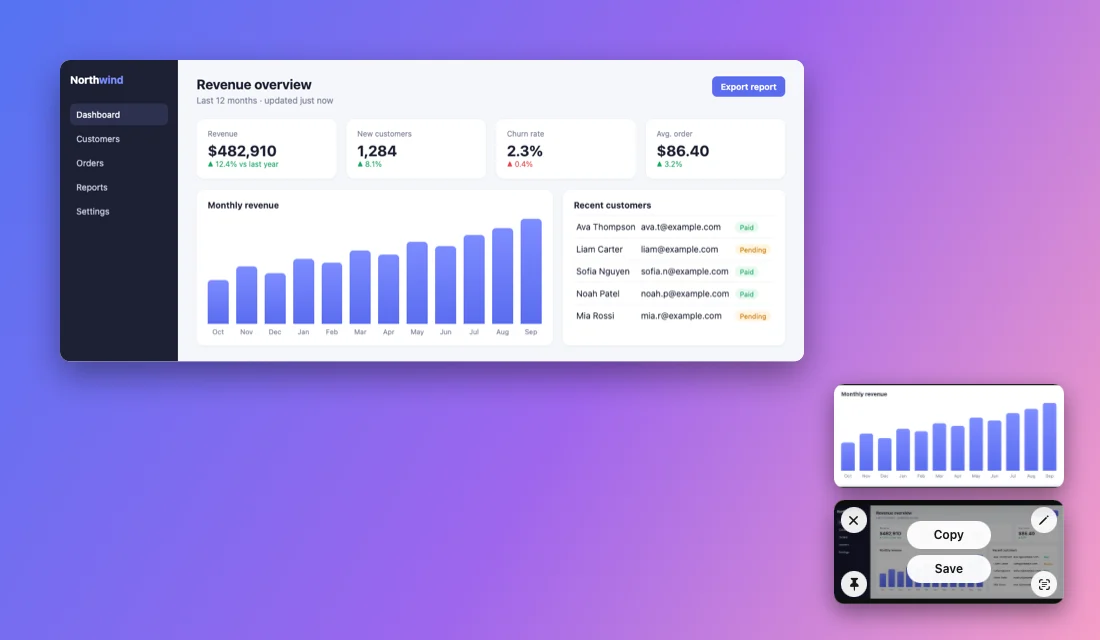
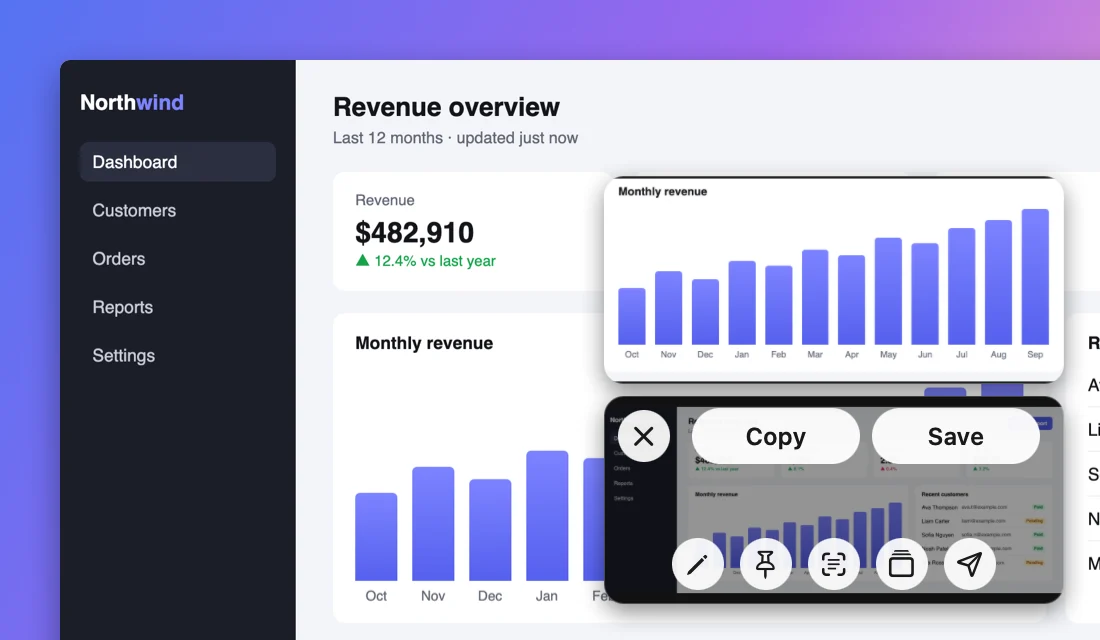
feat(glimpse): recent screenshots, Stitch and Send to your agent (#29)
New Recent and Send sections with screenshots rendered by the app; the
Annotate copy covers the pencil arrow and notes; refreshed editor and
thumbnail images; the overlay copy lists the new buttons; the agents copy
mentions drawing back; fallback version 1.6.0.

diff --git a/website/glimpse/index.html b/website/glimpse/index.html
@@ -4,11 +4,11 @@
   <meta charset="utf-8">
   <meta name="viewport" content="width=device-width, initial-scale=1">
   <title>Glimpse: screenshots for macOS that make the point</title>
-  <meta name="description" content="Glimpse is a fast, native macOS menu bar app for screenshots, screen recordings and meeting notes: area, window and scrolling capture, an annotation editor, redaction, pinning, OCR, meeting recording with on-device transcription, and an MCP server so AI agents can take screenshots and search your meeting transcripts. Free and open source.">
+  <meta name="description" content="Glimpse is a fast, native macOS menu bar app for screenshots, screen recordings and meeting notes: area, window and scrolling capture, an annotation editor, redaction, pinning, OCR, a stack of your recent screenshots, meeting recording with on-device transcription, one-key sending to Claude Code, and an MCP server so AI agents can take screenshots, draw on them and search your meeting transcripts. Free and open source.">
   <link rel="canonical" href="https://milad.cloud/glimpse/">
   <meta property="og:type" content="website">
   <meta property="og:title" content="Glimpse: screenshots for macOS that make the point">
-  <meta property="og:description" content="Capture an area, a window or a whole scrolling page. Annotate, redact, pin, or record it with your camera and voice. Record meetings and get a transcript, made on your Mac. Free and open source.">
+  <meta property="og:description" content="Capture an area, a window or a whole scrolling page. Annotate, redact, pin, or record it with your camera and voice. Send it to Claude Code with one key. Record meetings and get a transcript, made on your Mac. Free and open source.">
   <meta property="og:url" content="https://milad.cloud/glimpse/">
   <meta property="og:image" content="https://milad.cloud/glimpse/img/og.png">
   <meta name="twitter:card" content="summary_large_image">
@@ -26,6 +26,7 @@
       <nav class="nav__links" aria-label="Sections">
         <a class="hide-sm" href="#capture">Capture</a>
         <a class="hide-sm" href="#annotate">Annotate</a>
+        <a class="hide-sm" href="#recent">Recent</a>
         <a class="hide-sm" href="#record">Record</a>
         <a class="hide-sm" href="#meetings">Meetings</a>
         <a class="hide-sm" href="#agents">Agents</a>
@@ -40,13 +41,13 @@
       <div class="wrap hero__copy">
         <p class="eyebrow"><span class="dot"></span>Native macOS app · Free and open source</p>
         <h1>Screenshots that<br><span class="mq" id="mq">make the point.<i class="h tl"></i><i class="h tr"></i><i class="h bl"></i><i class="h br"></i><span class="mq__size" id="mq-size">0 × 0</span></span></h1>
-        <p class="lede">Glimpse lives in your menu bar. Capture an area, a window or a whole scrolling page, mark it up, redact it, pin it above your work, or record your screen with your camera and voice. Record your calls, too, and get a transcript made on your Mac.</p>
+        <p class="lede">Glimpse lives in your menu bar. Capture an area, a window or a whole scrolling page, mark it up, redact it, pin it above your work, or record your screen with your camera and voice. Send a marked-up screenshot to your coding agent in one keystroke. Record your calls, too, and get a transcript made on your Mac.</p>
         <div class="hero__cta">
           <div class="cmd" id="hero-cmd">
             <span class="cmd__text" id="hero-cmd-text" data-text="curl -fsSL https://raw.githubusercontent.com/miladbeigi/glimpse/master/install.sh | bash"><span class="p">$</span>curl -fsSL https://raw.githubusercontent.com/miladbeigi/glimpse/master/install.sh | bash</span>
             <button class="copy" type="button" data-copy="#hero-cmd-text"></button>
           </div>
-          <p class="cmd-note"><span data-release="miladbeigi/glimpse">v1.4.3</span> · macOS 14+ · Apple silicon and Intel · <a href="#install">Other ways to install</a></p>
+          <p class="cmd-note"><span data-release="miladbeigi/glimpse">v1.6.0</span> · macOS 14+ · Apple silicon and Intel · <a href="#install">Other ways to install</a></p>
         </div>
       </div>
 
@@ -133,9 +134,25 @@
         <div class="feature__copy rv">
           <p class="kicker">Quick Access Overlay</p>
           <h2>Your capture waits in the corner.</h2>
-          <p>Hover it for <b>Copy</b> and <b>Save</b>, or use the corner buttons to close, annotate, pin or copy its text. Drag it straight into Slack, Mail or Finder. Swipe it away, and bring it back with <kbd>⌥⇧⌘9</kbd> if you change your mind.</p>
+          <p>Hover it for <b>Copy</b> and <b>Save</b>, and a row of buttons to draw on it, keep it on screen, copy its text, move it to your recent screenshots or send it to your agent. Drag it straight into Slack, Mail or Finder. Swipe it away, and bring it back with <kbd>⌥⇧⌘9</kbd> if you change your mind.</p>
         </div>
-        <figure class="shot rv"><img src="img/overlay.webp" width="1100" height="640" alt="Two captures stacked in the bottom-right corner; hovering one shows Copy and Save buttons" loading="lazy"></figure>
+        <figure class="shot rv"><img src="img/overlay.webp" width="1100" height="640" alt="Two captures stacked in the bottom-right corner; hovering one shows Copy and Save, a close button, and buttons to draw, keep, copy text, show in recent screenshots and send" loading="lazy"></figure>
+      </div>
+    </section>
+
+    <section class="sec feature feature--flip" id="recent">
+      <div class="wrap feature__grid">
+        <div class="feature__copy rv">
+          <p class="kicker">Recent screenshots</p>
+          <h2>Your last 30 screenshots, one double-tap away.</h2>
+          <p>Double-tap the right <kbd>Shift</kbd> and your recent captures slide in at the edge of the screen, without taking focus from the app you're in. Click one to draw on it, select a few to copy, send or drag them into a chat, or step through them one after another. Your marks stay editable.</p>
+          <p><b>Stitch</b> joins the ones you pick into a single numbered image, arranged so an AI model shrinks it the least and reads every piece clearly.</p>
+          <p class="feature__meta"><kbd>⇧ ⇧</kbd> or <kbd>⌥⇧⌘0</kbd> show the stack</p>
+        </div>
+        <div class="recent__media">
+          <figure class="shot rv"><img src="img/recent.webp" width="1100" height="778" alt="The recent screenshots stack at the right edge of the screen: five cards, two selected and numbered, an agent's card labelled Claude, and a bar with Copy, Draw, Stitch, Send, Remove and Remove All" loading="lazy"></figure>
+          <figure class="shot shot--editor rv"><img src="img/stitch.webp" width="2067" height="931" alt="Three screenshots stitched into one image, each with a number badge from 1 to 3" loading="lazy"></figure>
+        </div>
       </div>
     </section>
 
@@ -144,10 +161,10 @@
         <header class="sec__head rv">
           <p class="kicker">Annotate</p>
           <h2>Arrows, steps, blur. Every mark stays editable.</h2>
-          <p>Select, move, resize, restyle or delete any annotation after you draw it. Pixelate and blur hide what shouldn't be shared. Each tool is one key away.</p>
+          <p>The arrow draws like a pencil: curve it around what's in the way, or keep it straight. Draw a box or an arrow and just start typing, and your note lands beside it. Select, move, resize, restyle or delete any mark after you draw it. Pixelate and blur hide what shouldn't be shared. Each tool is one key away.</p>
         </header>
         <figure class="shot shot--editor rv">
-          <img src="img/editor.webp" width="1330" height="762" alt="The Glimpse annotation editor: a dashboard with numbered steps, a highlighted subtitle, a red box, an arrow labelled Best month yet and blurred customer emails" loading="lazy">
+          <img src="img/editor.webp" width="1026" height="762" alt="The Glimpse annotation editor: a dashboard with numbered steps, a highlighted subtitle, a red box, a curved arrow from the note Best month yet to the tallest bar, and blurred customer emails" loading="lazy">
         </figure>
         <ul class="tools rv" id="tools" aria-label="Editor shortcuts">
           <li><kbd>V</kbd>Select</li><li><kbd>A</kbd>Arrow</li><li><kbd>L</kbd>Line</li><li><kbd>R</kbd>Rectangle</li><li><kbd>F</kbd>Filled</li><li><kbd>O</kbd>Ellipse</li><li><kbd>P</kbd>Pen</li><li><kbd>H</kbd>Highlighter</li><li><kbd>T</kbd>Text</li><li><kbd>N</kbd>Steps</li><li><kbd>X</kbd>Pixelate</li><li><kbd>B</kbd>Blur</li><li><kbd>S</kbd>Spotlight</li><li><kbd>C</kbd>Crop</li>
@@ -210,12 +227,25 @@
       </div>
     </section>
 
+    <section class="sec feature" id="send">
+      <div class="wrap feature__grid">
+        <div class="feature__copy rv">
+          <p class="kicker">Send to your agent</p>
+          <h2>Draw on it, press ⌘↩, and Claude sees it.</h2>
+          <p>Mark up what's wrong and send the screenshot straight to Claude Code or Codex, in a terminal, an editor or the Claude app. With several sessions open, a menu lists them by title, folder and app, the one you used last first. Glimpse's Claude Code plugin delivers it between turns, so nothing is typed into your terminal.</p>
+          <p>Your agent can draw back, in its own colour: it puts screenshots with its arrows, boxes and notes in your stack, or opens one with a question and waits for you to draw your answer.</p>
+          <p class="feature__meta">Install the plugin in <b>Settings › Agents</b>.</p>
+        </div>
+        <figure class="shot shot--editor rv"><img src="img/send.webp" width="830" height="580" alt="Sending a marked-up chart from the editor: a note asks why does Sep jump, and the Send menu lists three sessions: Revenue chart tooltips in Ghostty, Fix the churn calculation in Claude, and northwind-ios in Terminal" loading="lazy"></figure>
+      </div>
+    </section>
+
     <section class="sec" id="agents">
       <div class="wrap agents">
         <div class="agents__copy rv">
           <p class="kicker">For AI agents</p>
           <h2>Let your coding agent see the screen.</h2>
-          <p>Glimpse includes an <a href="https://modelcontextprotocol.io">MCP</a> server. Claude Code, Cursor and other agents can list windows, screenshot one even when it's covered, read text on-device, record short clips to check their own work, and search your meeting transcripts. It's off until you allow it in Settings, and recordings always show Glimpse's controls so you can stop them.</p>
+          <p>Glimpse includes an <a href="https://modelcontextprotocol.io">MCP</a> server. Claude Code, Cursor and other agents can list windows, screenshot one even when it's covered, read text on-device, record short clips to check their own work, draw on screenshots to show or ask you something, and search your meeting transcripts. It's off until you allow it in Settings, and recordings always show Glimpse's controls so you can stop them.</p>
           <div class="cmd">
             <span class="cmd__text" id="mcp-cmd"><span class="p">$</span>claude mcp add glimpse -- /Applications/Glimpse.app/Contents/MacOS/Glimpse mcp</span>
             <button class="copy" type="button" data-copy="#mcp-cmd"></button>

diff --git a/website/glimpse/style.css b/website/glimpse/style.css
@@ -276,7 +276,7 @@ kbd {
 .term__bar span { margin-left: auto; margin-right: auto; padding-right: 50px; font: 500 12px var(--mono); color: #9a9aab; }
 .term__body { margin: 0; padding: 18px 20px; min-height: 340px; font: 400 12.5px/1.65 var(--mono); white-space: pre-wrap; word-break: break-word; }
 .term--short .term__body { min-height: 0; }
-.meetings__media { display: grid; gap: 24px; min-width: 0; }
+.meetings__media, .recent__media { display: grid; gap: 24px; min-width: 0; }
 .term__body .u { color: #fff; }
 .term__body .d { color: #8b8ba0; }
 .term__body .t { color: #c4a7ff; }
